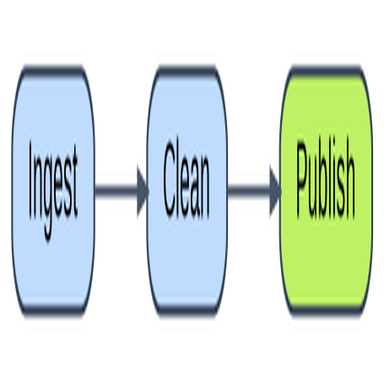
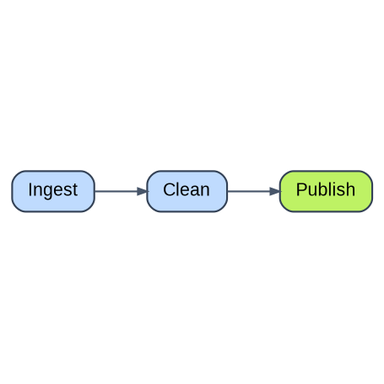
test: improve typst benchmark target

diff --git a/bench/non_svg.py b/bench/non_svg.py
@@ -11,27 +11,38 @@ from __future__ import annotations
 from pathlib import Path
 
 
-def _typst(page: str, circle: str, card: str, line: str) -> str:
+def _typst(primary: str, accent: str, progress: str, stroke: str) -> str:
+    """A compact status-card layout, rich enough to exercise scene operators."""
     return (
         "#set page(width: 384pt, height: 384pt, margin: 0pt)\n"
-        f"#place(dx: 80pt, dy: 80pt)[#circle(radius: {circle}pt, "
-        f'fill: rgb("{page}"))]\n'
-        "#place(dx: 230pt, dy: 80pt)[#rect(width: 74pt, height: 74pt, "
-        f'radius: 10pt, fill: rgb("{card}"))]\n'
-        "#place(dx: 128pt, dy: 208pt)[#rect(width: 130pt, height: 48pt, "
-        'radius: 8pt, fill: rgb("65a30d"))]\n'
-        "#place(dx: 155pt, dy: 123pt)[#line(start: (0pt, 0pt), "
-        f'end: (78pt, 85pt), stroke: {line}pt + rgb("334155"))]\n'
+        "#place(dx: 40pt, dy: 36pt)[#text(size: 24pt, weight: "
+        '"bold", fill: rgb("172554"))[Project pulse]]\n'
+        "#place(dx: 40pt, dy: 90pt)[#rect(width: 304pt, height: 112pt, "
+        f'radius: 16pt, fill: rgb("{primary}"))]\n'
+        "#place(dx: 66pt, dy: 117pt)[#text(size: 15pt, fill: white)"
+        "[This week]]\n"
+        "#place(dx: 66pt, dy: 145pt)[#text(size: 32pt, weight: "
+        '"bold", fill: white)[24 tasks]]\n'
+        "#place(dx: 40pt, dy: 234pt)[#rect(width: 304pt, height: 20pt, "
+        'radius: 10pt, fill: rgb("e2e8f0"))]\n'
+        "#place(dx: 40pt, dy: 234pt)[#rect(width: 208pt, height: 20pt, "
+        f'radius: 10pt, fill: rgb("{progress}"))]\n'
+        "#place(dx: 40pt, dy: 279pt)[#circle(radius: 18pt, "
+        f'fill: rgb("{accent}"))]\n'
+        "#place(dx: 74pt, dy: 273pt)[#text(size: 15pt, fill: "
+        'rgb("334155"))[On track for Friday]]\n'
+        "#place(dx: 40pt, dy: 327pt)[#line(start: (0pt, 0pt), "
+        f'end: (304pt, 0pt), stroke: {stroke}pt + rgb("cbd5e1"))]\n'
     )
 
 
-TYPST_TARGET = _typst("4f7ecb", "36", "e6a23c", "4")
+TYPST_TARGET = _typst("4f7ecb", "f59e0b", "84cc16", "2")
 TYPST_SEEDS = [
-    _typst("588bcf", "30", "e0a04a", "2"),
-    _typst("3d6fb5", "43", "f0ad38", "6"),
-    _typst("6f9bd7", "34", "d58f2c", "3"),
-    _typst("4878c1", "39", "e8b14d", "5"),
-    _typst("557fbb", "32", "d99a40", "7"),
+    _typst("588bcf", "f97316", "65a30d", "1"),
+    _typst("3d6fb5", "eab308", "a3e635", "4"),
+    _typst("6f9bd7", "fb923c", "4d7c0f", "3"),
+    _typst("4878c1", "d97706", "bef264", "5"),
+    _typst("557fbb", "fbbf24", "22c55e", "2.5"),
 ]
 
 
